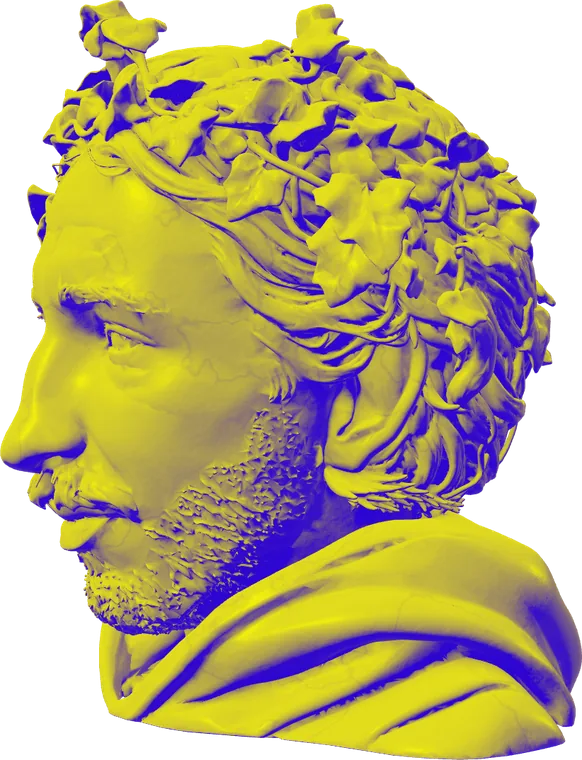
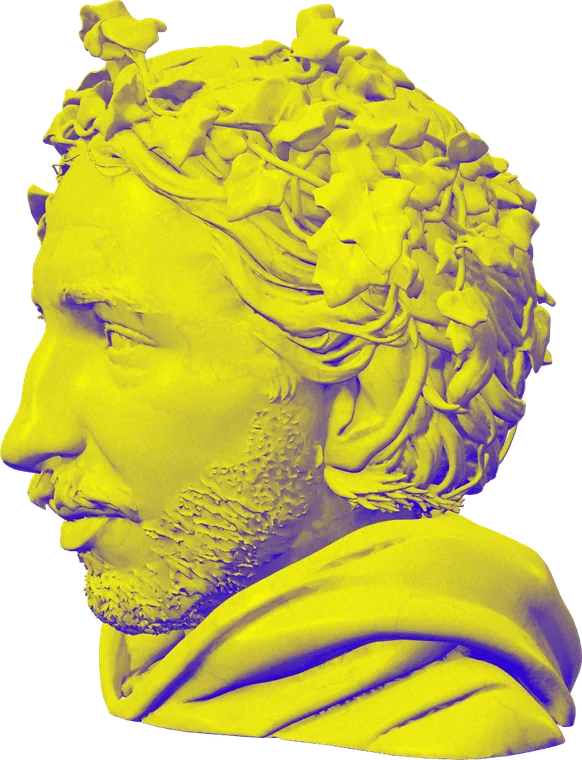
The bust, more alive: glowing scan, plate slip, print grain, a torch
- The blueprint glows from inside: a soft halo around each lime contour
  line, and the yellow cut glows onto the stone beside it (and in the DOM
  line over the stage). The cobalt is a little deeper to keep it blue.
- The blue plate slips under the head while the seam moves, by scroll
  speed (up to 8px), and settles back at rest, like the headlines' print.
- Print grain on the bust only, fixed to the screen like ink on paper.
- A warm torch light follows the cursor across the face with the head's
  spring; the stills are rendered with it at rest, so they still match.
- Desktop only, nothing extra to download; reduced motion keeps stills.

Claude-Session: https://claude.ai/code/session_01WN3sWN5qWiKMxGn6tEwJvG

diff --git a/src/BustScene.jsx b/src/BustScene.jsx
@@ -5,6 +5,7 @@ import { MeshoptDecoder } from "three/examples/jsm/libs/meshopt_decoder.module.j
 import {
   MODEL,
   addBustLights,
+  addTorch,
   loadEnvironment,
   prepareBust,
   setupRenderer,
@@ -82,6 +83,7 @@ export default function BustScene({ stageRef, mode = "about" }) {
     const camera = new THREE.PerspectiveCamera(30, 1, 0.01, 50);
     camera.position.set(0, 0, setup.cameraZ);
     addBustLights(scene);
+    const torch = addTorch(scene);
     const pivot = new THREE.Group();
     pivot.position.y = setup.lift; // About: a little low, clear of the labels
     scene.add(pivot);
@@ -116,6 +118,18 @@ export default function BustScene({ stageRef, mode = "about" }) {
       draw();
     };
 
+    // The blue plate under the head slips while the seam moves (like the
+    // headlines' print slip), then settles back onto it.
+    let slip = 0;
+    let lastSeamAt = 0;
+    const setSlip = (value) => {
+      slip = value;
+      container.style.filter =
+        slip > 0.3
+          ? `drop-shadow(${(-slip).toFixed(1)}px ${(-slip * 0.6).toFixed(1)}px 0 #2e05d1)`
+          : "";
+    };
+
     // Returns true when the seam moved since the last frame.
     const updateSeam = () => {
       if (!setup.seam) {
@@ -126,7 +140,15 @@ export default function BustScene({ stageRef, mode = "about" }) {
       const box = section.getBoundingClientRect();
       const seam = seamFor(box.top, box.height, window.innerHeight);
       if (Math.abs(seam - lastSeam) < 0.0001) return false;
+      // slip by how fast the seam travels (share of the face per second)
+      const now = performance.now();
+      if (lastSeam >= 0) {
+        const speed =
+          (Math.abs(seam - lastSeam) / Math.max(now - lastSeamAt, 8)) * 1000;
+        setSlip(Math.max(slip, Math.min(8, speed * 14)));
+      }
       lastSeam = seam;
+      lastSeamAt = now;
       stage.style.setProperty("--seam", seam.toFixed(4));
       if (uniforms) uniforms.uSeam.value = seam;
       return true;
@@ -140,9 +162,11 @@ export default function BustScene({ stageRef, mode = "about" }) {
         lastFrame = 0;
         return;
       }
-      const seamMoved = updateSeam();
       const dt = lastFrame ? Math.min(now - lastFrame, 100) : 16.7;
       lastFrame = now;
+      // the plate settles back first; a moving seam can then push it out again
+      if (slip > 0) setSlip(slip > 0.3 ? slip * Math.pow(0.85, dt / 16.7) : 0);
+      const seamMoved = updateSeam();
       adapt(dt);
       // A soft spring toward the cursor: starts gently, follows quickly,
       // settles without a bump. Stepped in small slices so it stays smooth
@@ -156,12 +180,19 @@ export default function BustScene({ stageRef, mode = "about" }) {
         pitch += pitchSpeed * h;
       }
       pivot.rotation.set(pitch, setup.baseYaw + yaw, 0);
+      // the torch travels with the cursor, across and up and down the face
+      torch.position.set(
+        (yaw / setup.turn) * 1.1,
+        0.25 - (pitch / setup.tilt) * 0.7,
+        1.15,
+      );
       draw();
       const turning =
         Math.abs(targetYaw - yaw) > 0.0004 ||
         Math.abs(targetPitch - pitch) > 0.0004 ||
         Math.abs(yawSpeed) > 0.002 ||
-        Math.abs(pitchSpeed) > 0.002;
+        Math.abs(pitchSpeed) > 0.002 ||
+        slip > 0;
       if (turning || seamMoved) frame = requestAnimationFrame(loop);
       else {
         lastFrame = 0;

diff --git a/src/bustLook.js b/src/bustLook.js
@@ -30,6 +30,15 @@ export function addBustLights(scene) {
   scene.add(key, rim);
 }
 
+// A warm light, like a torch in a chapel, that the live scene moves with the
+// cursor across the face. Starts in front, a little above.
+export function addTorch(scene) {
+  const torch = new THREE.PointLight(0xffcf94, 0.9, 0, 2);
+  torch.position.set(0, 0.25, 1.15);
+  scene.add(torch);
+  return torch;
+}
+
 // The painted ceiling as the light around the head: the painting fills the
 // sky, the ground fades to the page's dark. Prefiltered for every roughness.
 export function loadEnvironment(renderer) {
@@ -125,7 +134,7 @@ marble *= 0.94 + 0.06 * fbm(mp * 6.0);
 float open = mix(1.0, smoothstep(0.02, 0.78, vShade), uHasShade);
 float seamX = uRes.x * (1.0 - uSeam);
 float blue = step(seamX, gl_FragCoord.x);
-diffuseColor.rgb = mix(marble, vec3(0.027, 0.0015, 0.64), blue);
+diffuseColor.rgb = mix(marble, vec3(0.02, 0.001, 0.5), blue);
 // carved folds hold shadow even in direct light
 diffuseColor.rgb *= mix(1.0, pow(open, 1.3), 0.55);`,
       )
@@ -161,13 +170,28 @@ reflectedLight.indirectSpecular *= mix(1.0, open, 0.85);`,
         "#include <emissivemap_fragment>",
         `#include <emissivemap_fragment>
 float yy = vP.y / uHeight * 70.0;
-float contour = 1.0 - min(abs(fract(yy) - 0.5) / max(fwidth(yy), 1e-4), 1.0);
+float lineDist = abs(fract(yy) - 0.5) / max(fwidth(yy), 1e-4);
+float contour = 1.0 - min(lineDist, 1.0);
+// the scan glows from inside: a soft halo around each line
+contour += 0.18 * exp(-lineDist * 0.5);
 float rim = pow(1.0 - abs(dot(normal, normalize(vViewPosition))), 2.5);
 totalEmissiveRadiance += blue * vec3(0.75, 1.0, 0.0) * (contour * 0.9 + rim * 0.5);
 // marble lets a little warm light through its thin, open edges
 totalEmissiveRadiance += (1.0 - blue) * vec3(0.95, 0.66, 0.42) * 0.07 * rim * open;
-float cut = 1.0 - smoothstep(0.0, 1.5 * uDpr, abs(gl_FragCoord.x - seamX));
+float seamDist = abs(gl_FragCoord.x - seamX) / uDpr;
+float cut = 1.0 - smoothstep(0.0, 1.5, seamDist);
+cut += 0.45 * exp(-seamDist * 0.18); // the cut glows onto the stone beside it
 totalEmissiveRadiance += vec3(1.0, 1.0, 0.0) * cut * step(0.002, uSeam) * step(uSeam, 0.998) * 2.0;`,
+      )
+      .replace(
+        "#include <dithering_fragment>",
+        `#include <dithering_fragment>
+// print grain: fixed to the screen like ink on paper, only on the bust
+{
+  vec2 g = floor(gl_FragCoord.xy / max(uDpr, 1.0));
+  float n = fract(sin(dot(g, vec2(12.9898, 78.233))) * 43758.5453);
+  gl_FragColor.rgb += (n - 0.5) * 0.045;
+}`,
       );
   };
   return { material, uniforms };

diff --git a/src/App.css b/src/App.css
@@ -742,6 +742,10 @@ summary:focus-visible {
   width: 3px;
   margin-left: -1px;
   background: var(--yellow);
+  /* the cut glows, as if lit from the blueprint side */
+  box-shadow:
+    0 0 10px 1px rgba(255, 255, 0, 0.75),
+    0 0 36px 4px rgba(255, 255, 0, 0.25);
 }
 .bust-still {
   position: absolute;
